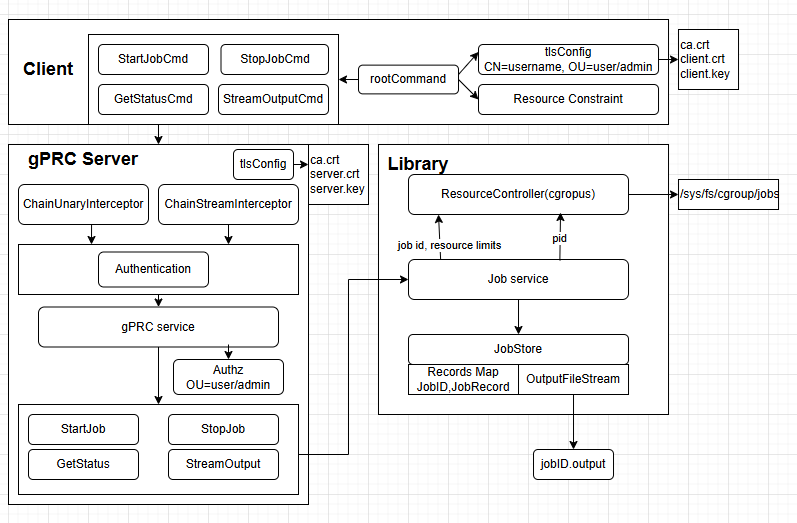
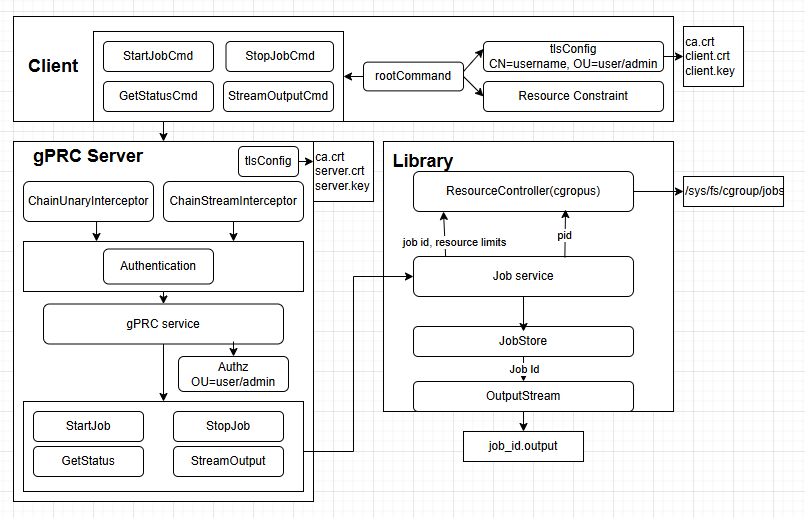
Fixed some typos

Changed region(s): [[0.0, 0.0309, 0.9937, 0.9884]]

diff --git a/docs/design.md b/docs/design.md
@@ -209,7 +209,7 @@ The gRPC server is the parent process, and the job commands are child processes 
 		Ptrace: true,
 	}
 ```
-Because Ptrace: true was requested, the child process is stopped by the kernel before it executes the target program. After the PID is added to the cgroup, the parent resumes the process by calling PtraceDetach on the child process.
+Because Ptrace: true was requested, the child process is stopped by the kernel before it executes any instructions. After the PID is added to the cgroup, the parent resumes the process by calling PtraceDetach on the child process.
 ```
 	if err := os.WriteFile(procsFile, []byte(strconv.Itoa(pid)), 0644); err != nil {
 		fmt.Printf("Failed to move PID to cgroup.procs: %v\n", err)
@@ -314,8 +314,8 @@ func (f *OutputFileStream) notifyAll() {
 ```
 The read flow is to subscribe first and open its own file descriptor at the start of a job. It reads the file in blocks and streams each block accordingly.
 ```
-    notify := f.Subscribe()
-    defer f.Unsubscribe(notify)
+    sub := f.Subscribe()
+    defer f.Unsubscribe(sub)
     file, err := os.Open(f.outputFilePath)
     ...
     offset := int64(0)
@@ -324,26 +324,23 @@ The read flow is to subscribe first and open its own file descriptor at the star
     for {
         n, err := file.ReadAt(buf, offset)
 ```
-t reaches the end of the file and exits once the file is fully finised. Otherwise, it waits for the writer to notify it.
+It reaches the end of the file and exits once the file is fully finised. Otherwise, it waits for the writer to notify it.
 ```
-    if err == io.EOF {
-        f.mu.Lock()
-        finished := f.finished
-        f.mu.Unlock()
+        // Check whether writer is finshed
+		f.mu.Lock()
+		finished := f.finished
+		f.mu.Unlock()
 
-        if finished {
-            return nil
-        }       
-
-        select {
-
-            return ctx.Err()
-
-        case <-notify:
+		if finished {
+			return nil, nil
+		}
+        // Efficient wait
+		select {
+            case <-ctx.Done():
+                return nil, ctx.Err()
+            case <-sub:
         }
 
-        continue
-    }
 ```
 ## Testing
 ### Job Lifecycle
